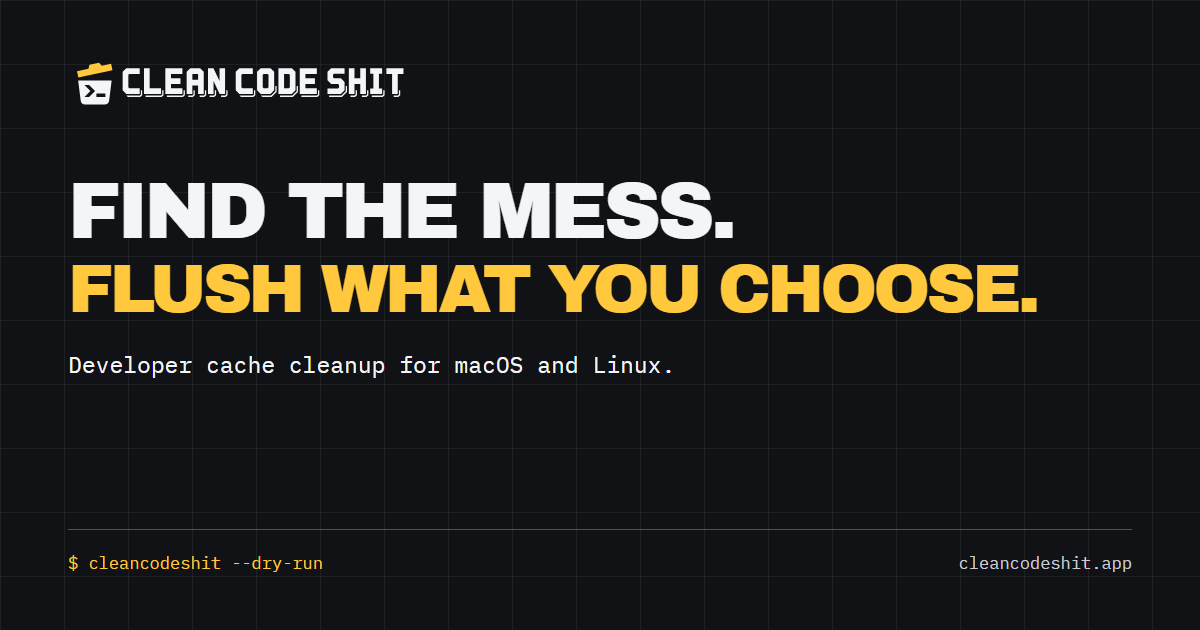
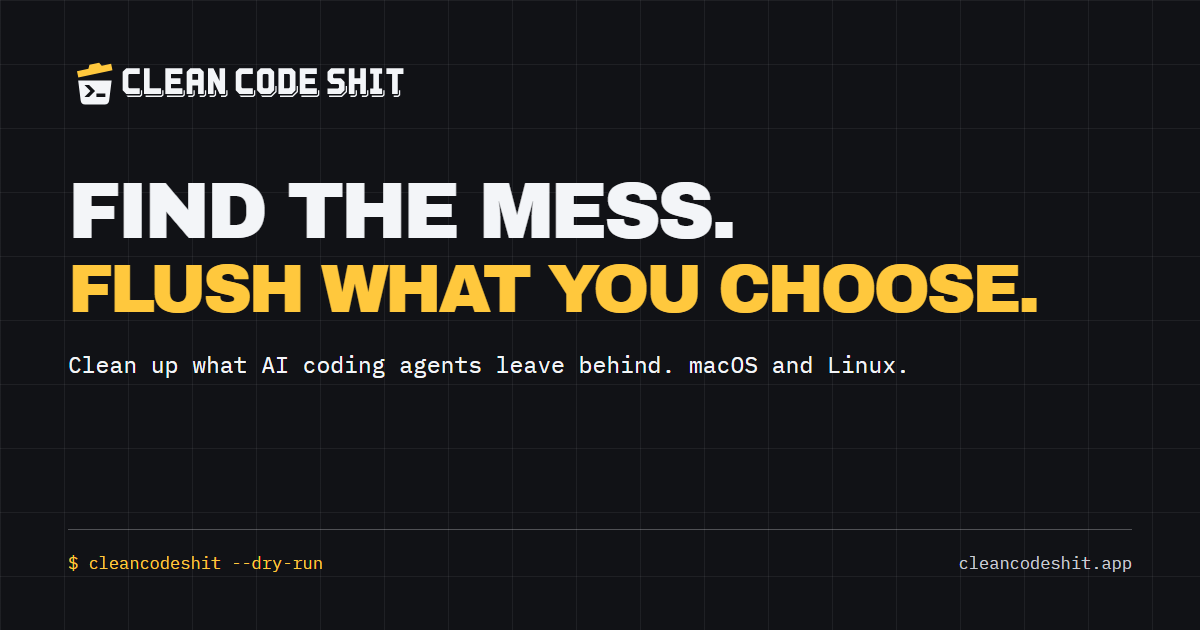
Lead with AI coding cleanup in site metadata

Changed region(s): [[0.0617, 0.573, 0.74, 0.6032]]

diff --git a/site/index.html b/site/index.html
@@ -3,24 +3,24 @@
 <head>
 <meta charset="utf-8">
 <meta name="viewport" content="width=device-width, initial-scale=1">
-<title>Clean Code Shit | Developer cache cleanup for macOS and Linux</title>
-<meta name="description" content="Find what fills your disk, preview a cleanup, and clear the developer caches you choose. Free and open source for macOS and Linux.">
+<title>Clean Code Shit | Clean up what AI coding agents leave behind</title>
+<meta name="description" content="AI coding agents leave caches, browsers, Docker layers and model weights all over your disk. Find the mess, preview the cleanup, flush only what you pick. Free and open source for macOS and Linux.">
 <meta name="color-scheme" content="dark">
 <meta name="theme-color" content="#111216">
 <link rel="canonical" href="https://cleancodeshit.app/">
 <meta property="og:type" content="website">
 <meta property="og:site_name" content="Clean Code Shit">
-<meta property="og:title" content="Clean Code Shit | Developer cache cleanup for macOS and Linux">
-<meta property="og:description" content="Find what fills your disk, preview a cleanup, and clear the developer caches you choose. Free and open source for macOS and Linux.">
+<meta property="og:title" content="Clean Code Shit | Clean up what AI coding agents leave behind">
+<meta property="og:description" content="AI coding agents leave caches, browsers, Docker layers and model weights all over your disk. Find the mess, preview the cleanup, flush only what you pick. Free and open source for macOS and Linux.">
 <meta property="og:url" content="https://cleancodeshit.app/">
 <meta property="og:image" content="https://cleancodeshit.app/og.png">
 <meta property="og:image:type" content="image/png">
 <meta property="og:image:width" content="1200">
 <meta property="og:image:height" content="630">
-<meta property="og:image:alt" content="Clean Code Shit. Find the mess. Flush what you choose.">
+<meta property="og:image:alt" content="Clean Code Shit. Find the mess. Flush what you choose. Clean up what AI coding agents leave behind. macOS and Linux.">
 <meta name="twitter:card" content="summary_large_image">
-<meta name="twitter:title" content="Clean Code Shit | Developer cache cleanup for macOS and Linux">
-<meta name="twitter:description" content="Find what fills your disk, preview a cleanup, and clear the developer caches you choose. Free and open source for macOS and Linux.">
+<meta name="twitter:title" content="Clean Code Shit | Clean up what AI coding agents leave behind">
+<meta name="twitter:description" content="AI coding agents leave caches, browsers, Docker layers and model weights all over your disk. Find the mess, preview the cleanup, flush only what you pick. Free and open source for macOS and Linux.">
 <meta name="twitter:image" content="https://cleancodeshit.app/og.png">
 <meta name="twitter:image:alt" content="Clean Code Shit. Find the mess. Flush what you choose.">
 <link rel="icon" href="assets/brand/favicon.ico" sizes="any">
